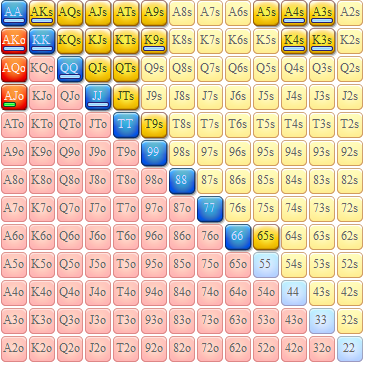
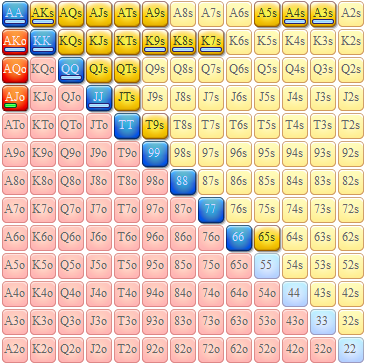
updated nl50 charts

diff --git a/js/structure.js b/js/structure.js
@@ -166,6 +166,7 @@ const struct = {
       '3bet vs 30%',
     ],
     'def vs 3bet': [
+      'vs 2% IP',
       'vs 3% IP',
       'vs 4% IP',
       'vs 5% IP',
@@ -175,6 +176,7 @@ const struct = {
       'vs 11% IP',
       'vs 13% IP',
       'vs 15% IP',
+      'vs 2% OOP',
       'vs 3% OOP',
       'vs 4% OOP',
       'vs 5% OOP',
@@ -186,7 +188,15 @@ const struct = {
       'vs 13% BvB',
       'vs 15% BvB',
     ],
+    'def vs squeeze': [
+      'vs 4%', 
+      'vs 6%', 
+      'vs 8%', 
+      'vs 10%', 
+      'vs 12%'
+    ],
     squeeze: ['sq reg+fish OOP', 'sq reg+fish IP'],
+    
     'def vs 4bet': [
       'vs 1% IP',
       'vs 1,5% IP',
@@ -204,7 +214,6 @@ const struct = {
       'vs 5,5% OOP',
       'vs 6,5% OOP',
     ],
-
     '3bet SB': [
       'SB vs 10%',
       'SB vs 15%',
@@ -224,6 +233,15 @@ const struct = {
       'vSB 35% (3bb)',
       'vSB 45% (3bb)',
     ],
-    'def vs squeeze': ['vs 4%', 'vs 6%', 'vs 8%', 'vs 10%', 'vs 12%'],
+    'def vs iso3bet': [
+      'vs 4% OOP',
+      'vs 6% OOP',
+      'vs 8% OOP',
+      'vs 10% OOP',
+      'vs 4% IP',
+      'vs 6% IP',
+      'vs 8% IP',
+      'vs 10% IP',
+    ],
   },
 }
